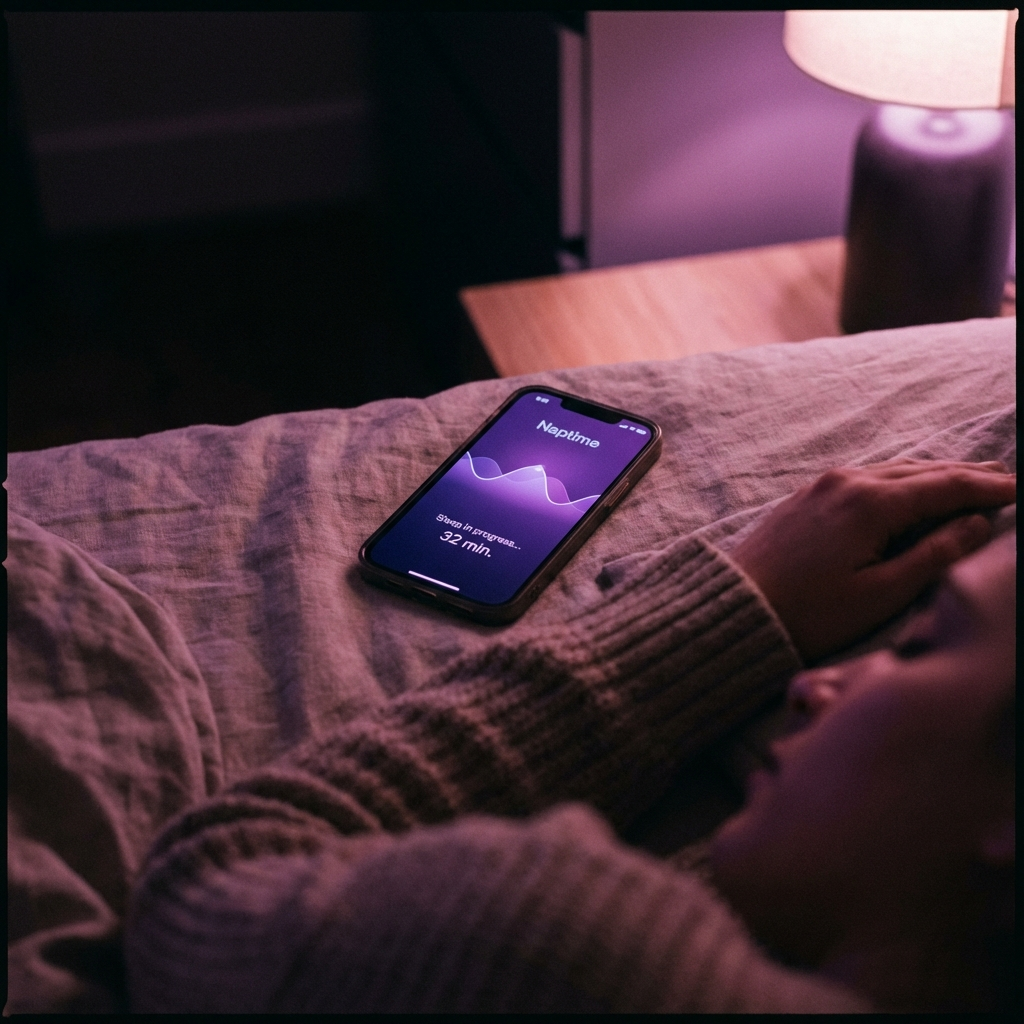
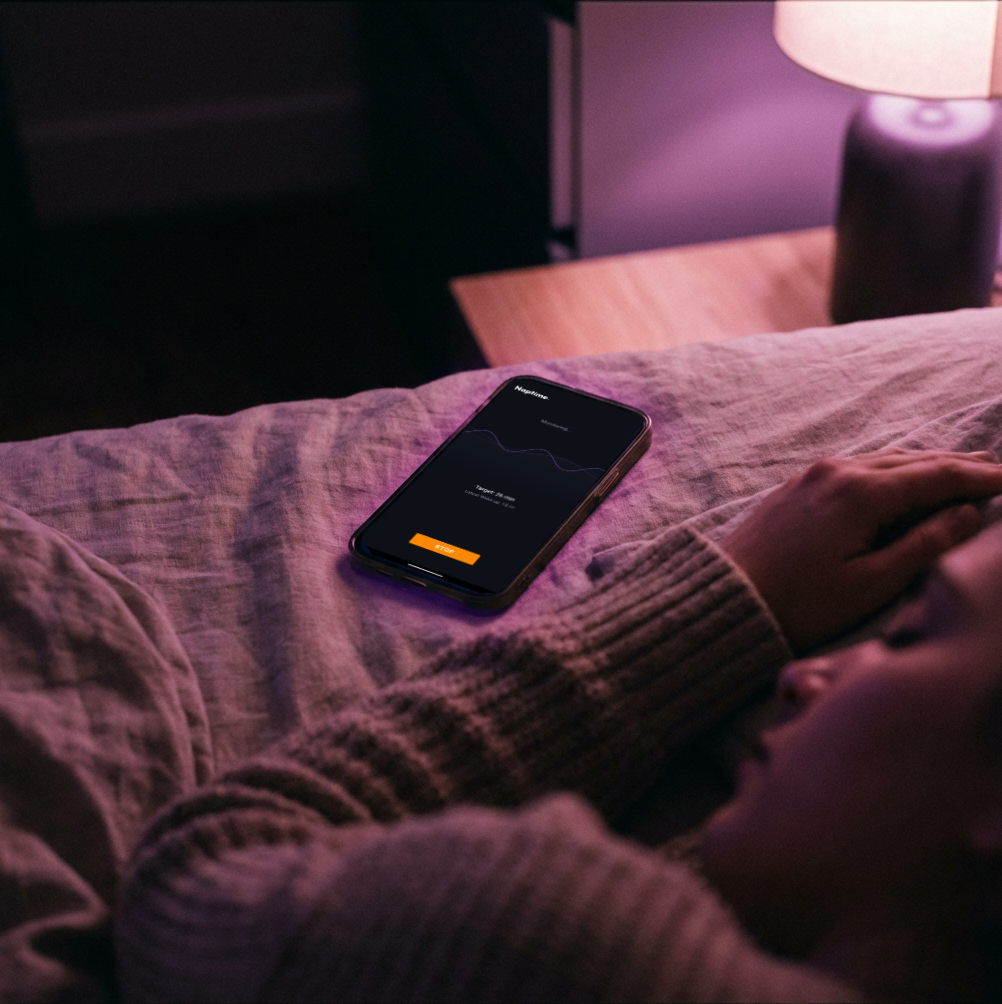
Update Hero and Analytics images, show CTA on mobile, fix placement text

diff --git a/index.html b/index.html
@@ -247,7 +247,7 @@
                 <div class="step-item">
                     <div class="step-number">2</div>
                     <h4>Place</h4>
-                    <p>Face-down next to pillow</p>
+                    <p>Face-down close to your body</p>
                 </div>
                 <div class="step-line"></div>
                 <div class="step-item">

diff --git a/style.css b/style.css
@@ -121,12 +121,13 @@ h4,
 }
 
 .nav-cta {
-    display: none;
+    display: inline-block;
+    padding: 0.5rem 1rem;
+    font-size: 0.85rem;
 }
 
 @media (min-width: 768px) {
     .nav-cta {
-        display: inline-block;
         padding: 0.6rem 1.5rem;
         font-size: 0.9rem;
     }
